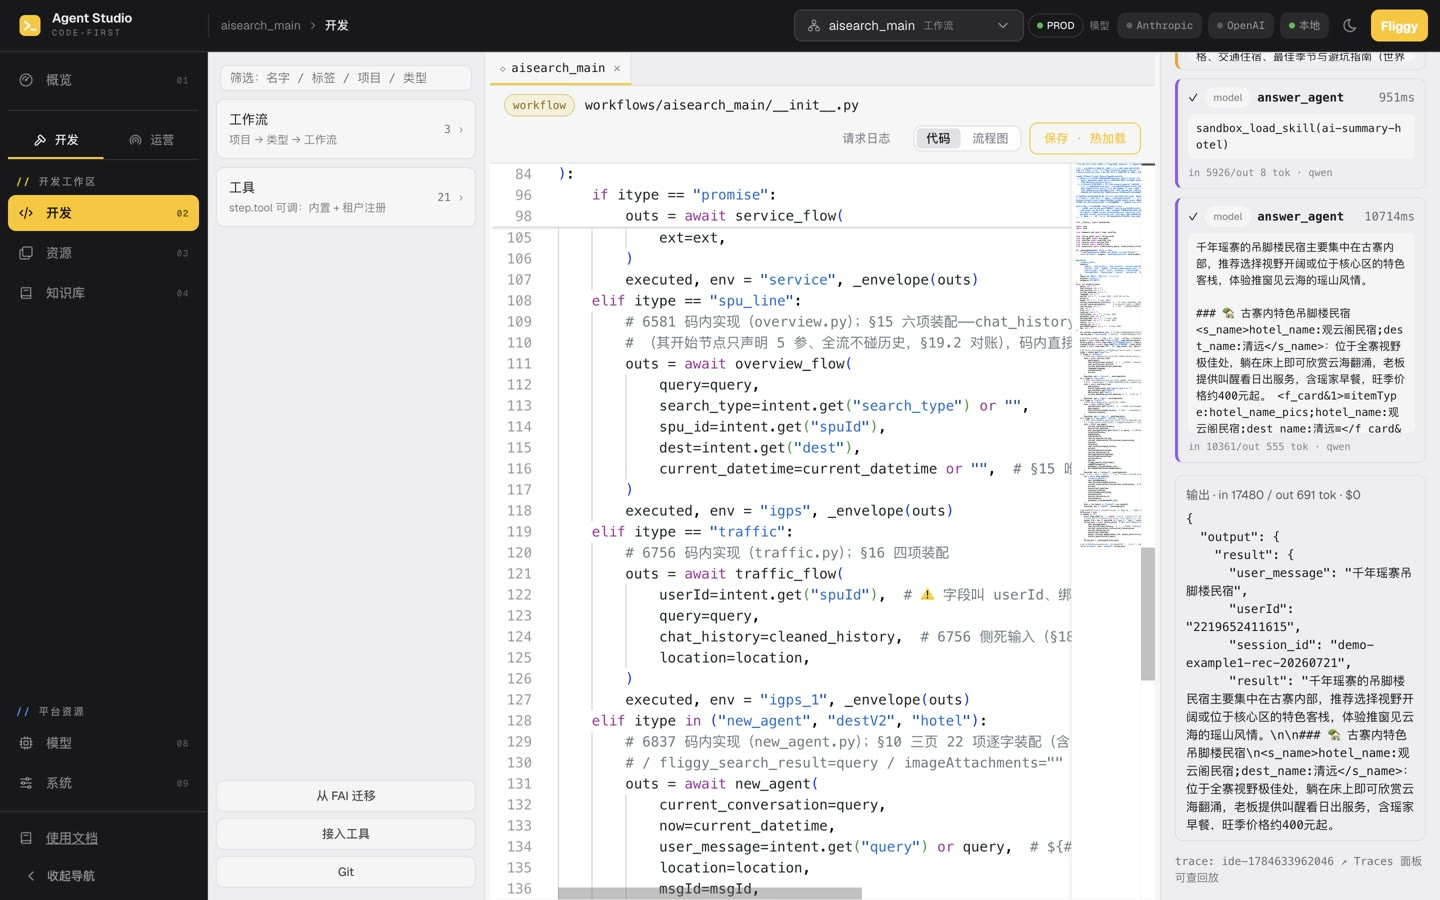
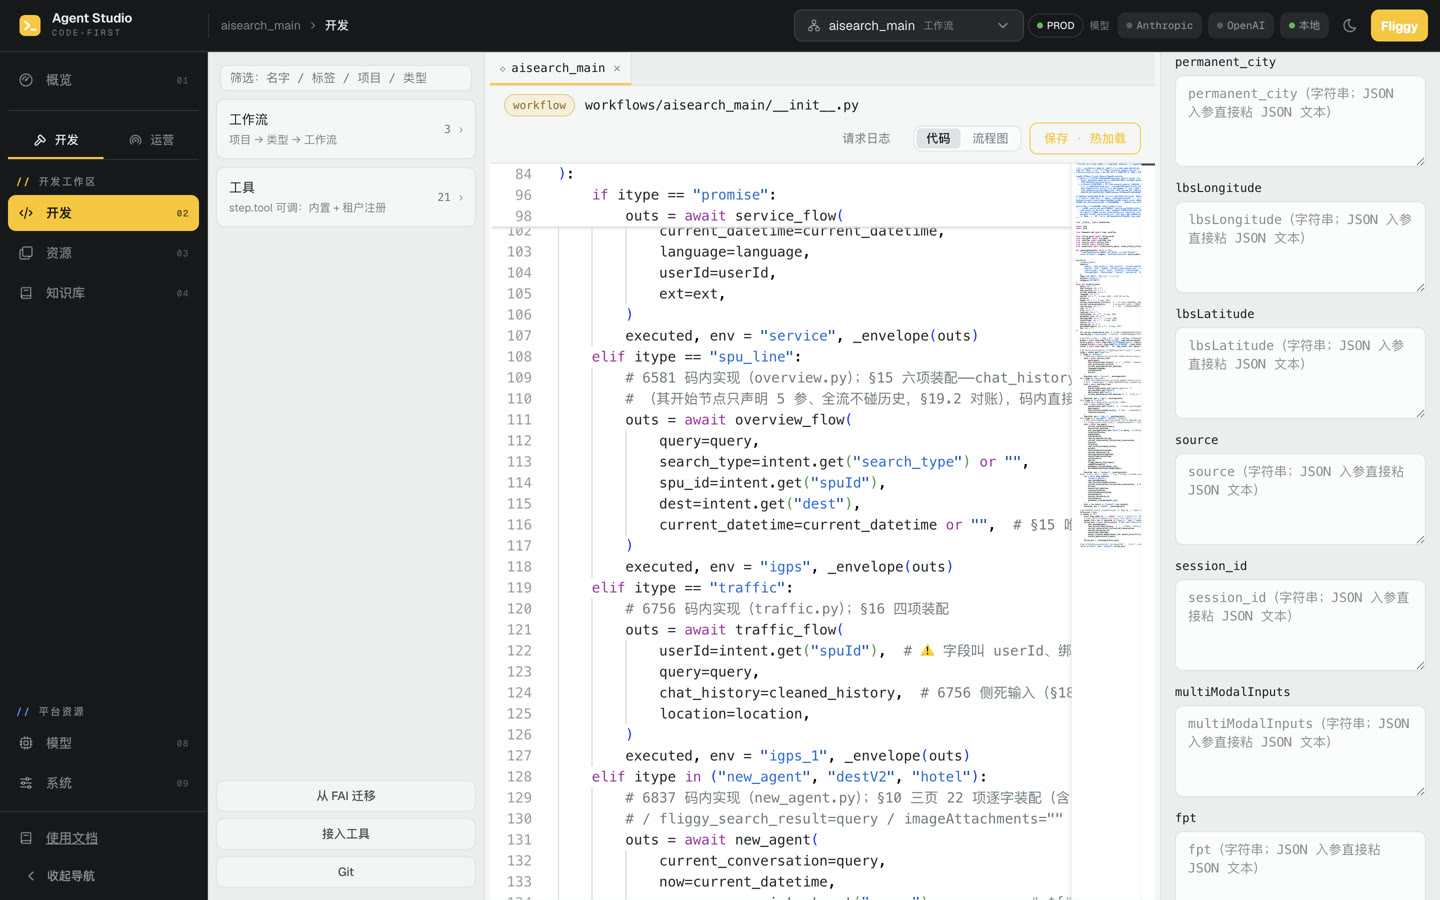
Re-record route & models clips on latest deployment; models compare now cross-vendor (deepseek-v3.2 / qwen3.7-max / qwen3.6-flash)

diff --git a/index.html b/index.html
@@ -349,7 +349,7 @@
         <div class="num">05</div>
         <span class="fig">FIG 05 · MODELS</span>
         <h3>模型中心</h3>
-        <p>模型统一接入管理，按业务方统计用量与成本；对比 Playground 支持 1–3 个模型同题并排（Max / Flash / Plus 多规格选型），比 TTFT、token 与耗时。</p>
+        <p>模型统一接入管理，按业务方统计用量与成本；对比 Playground 支持 1–3 个模型同题并排（DeepSeek / Qwen 跨厂商选型），比 TTFT、token 与耗时。</p>
       </div>
       <figure class="window">
         <div class="win-tab"><span class="lights"><i></i><i></i><i></i></span>